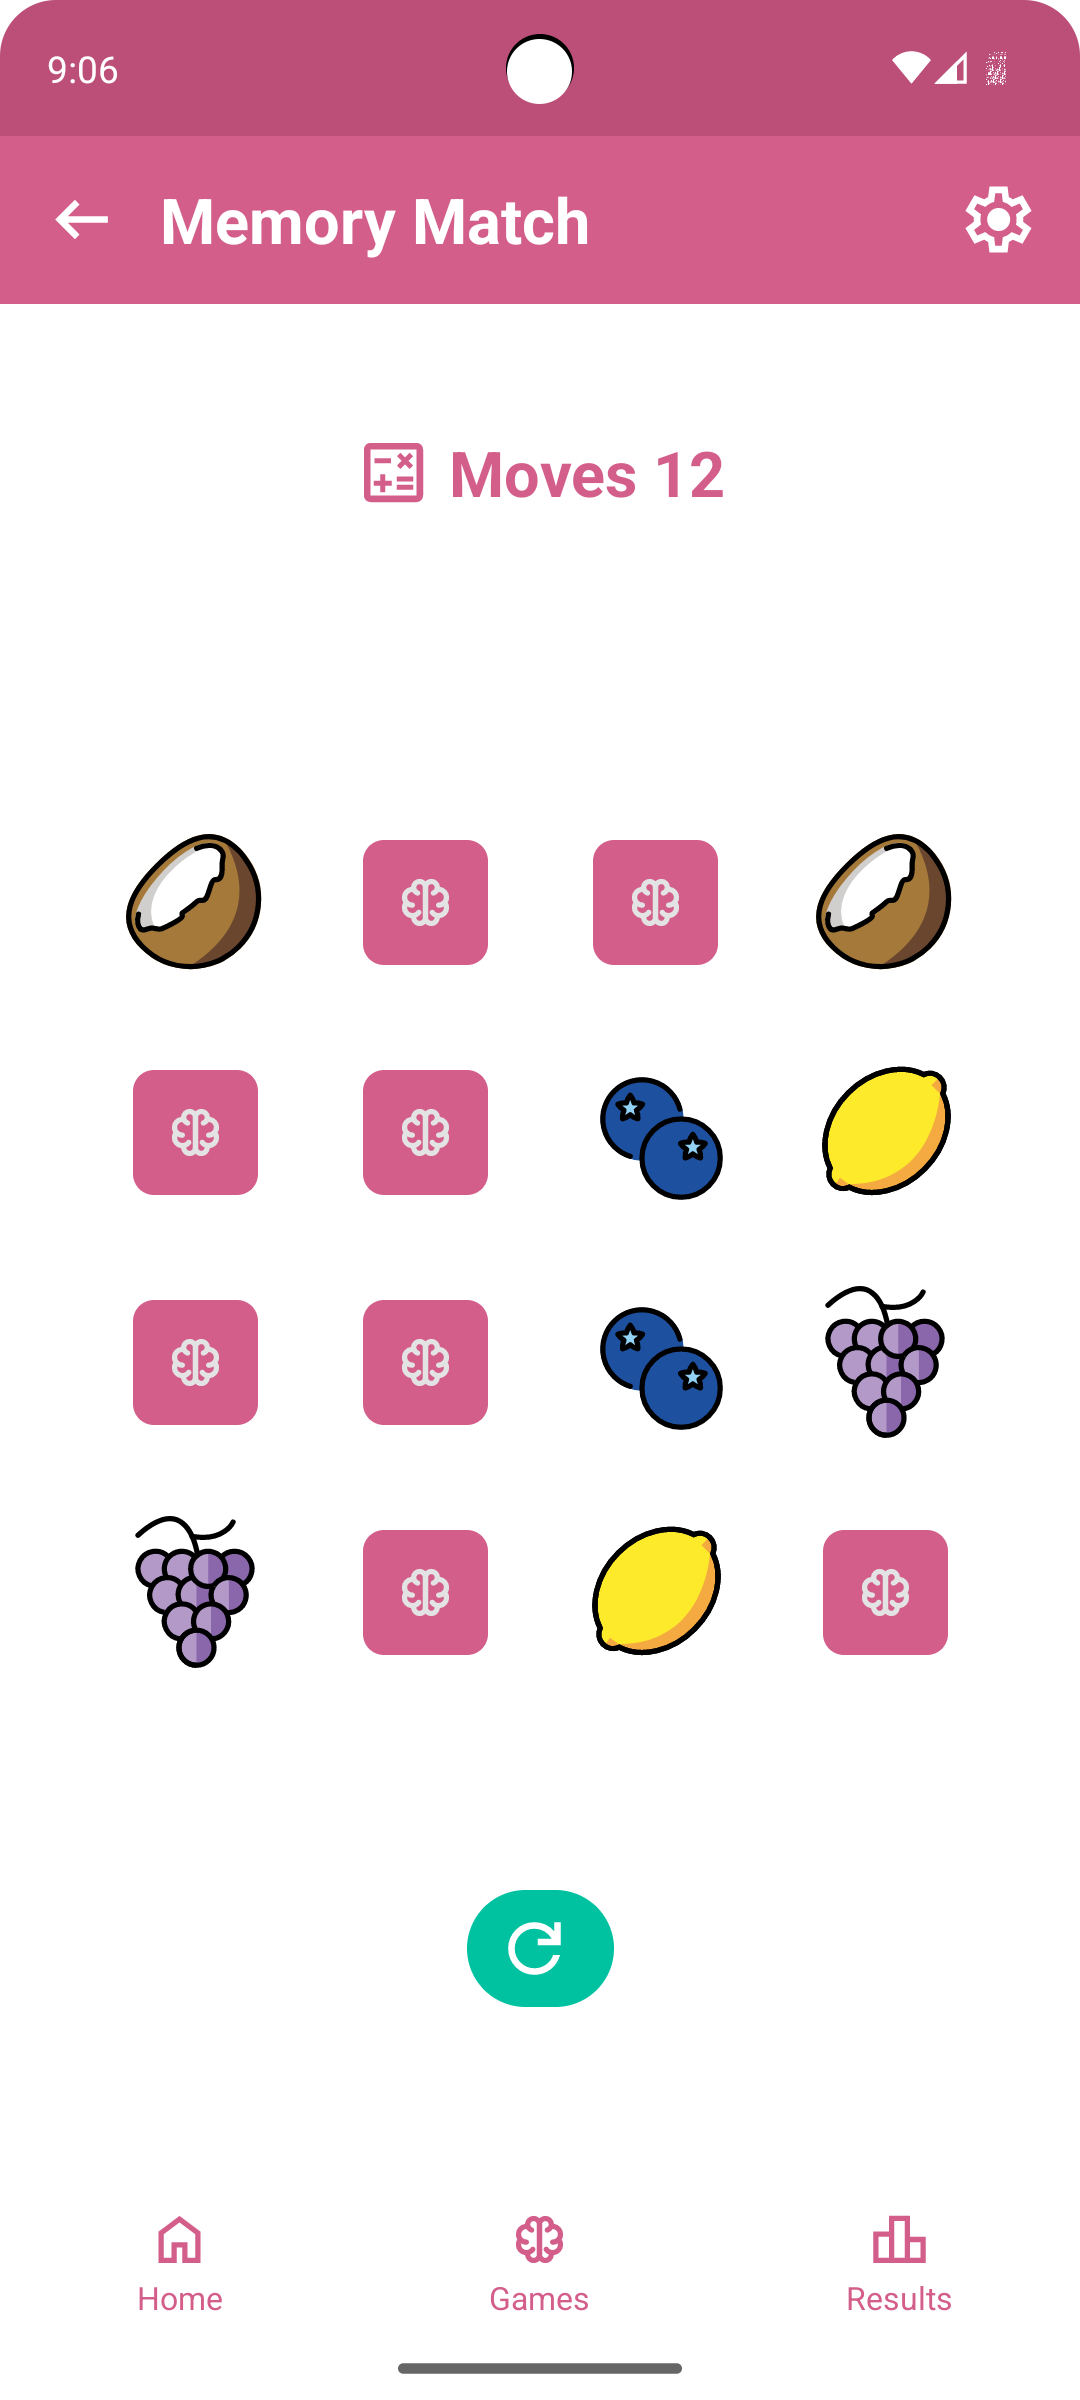
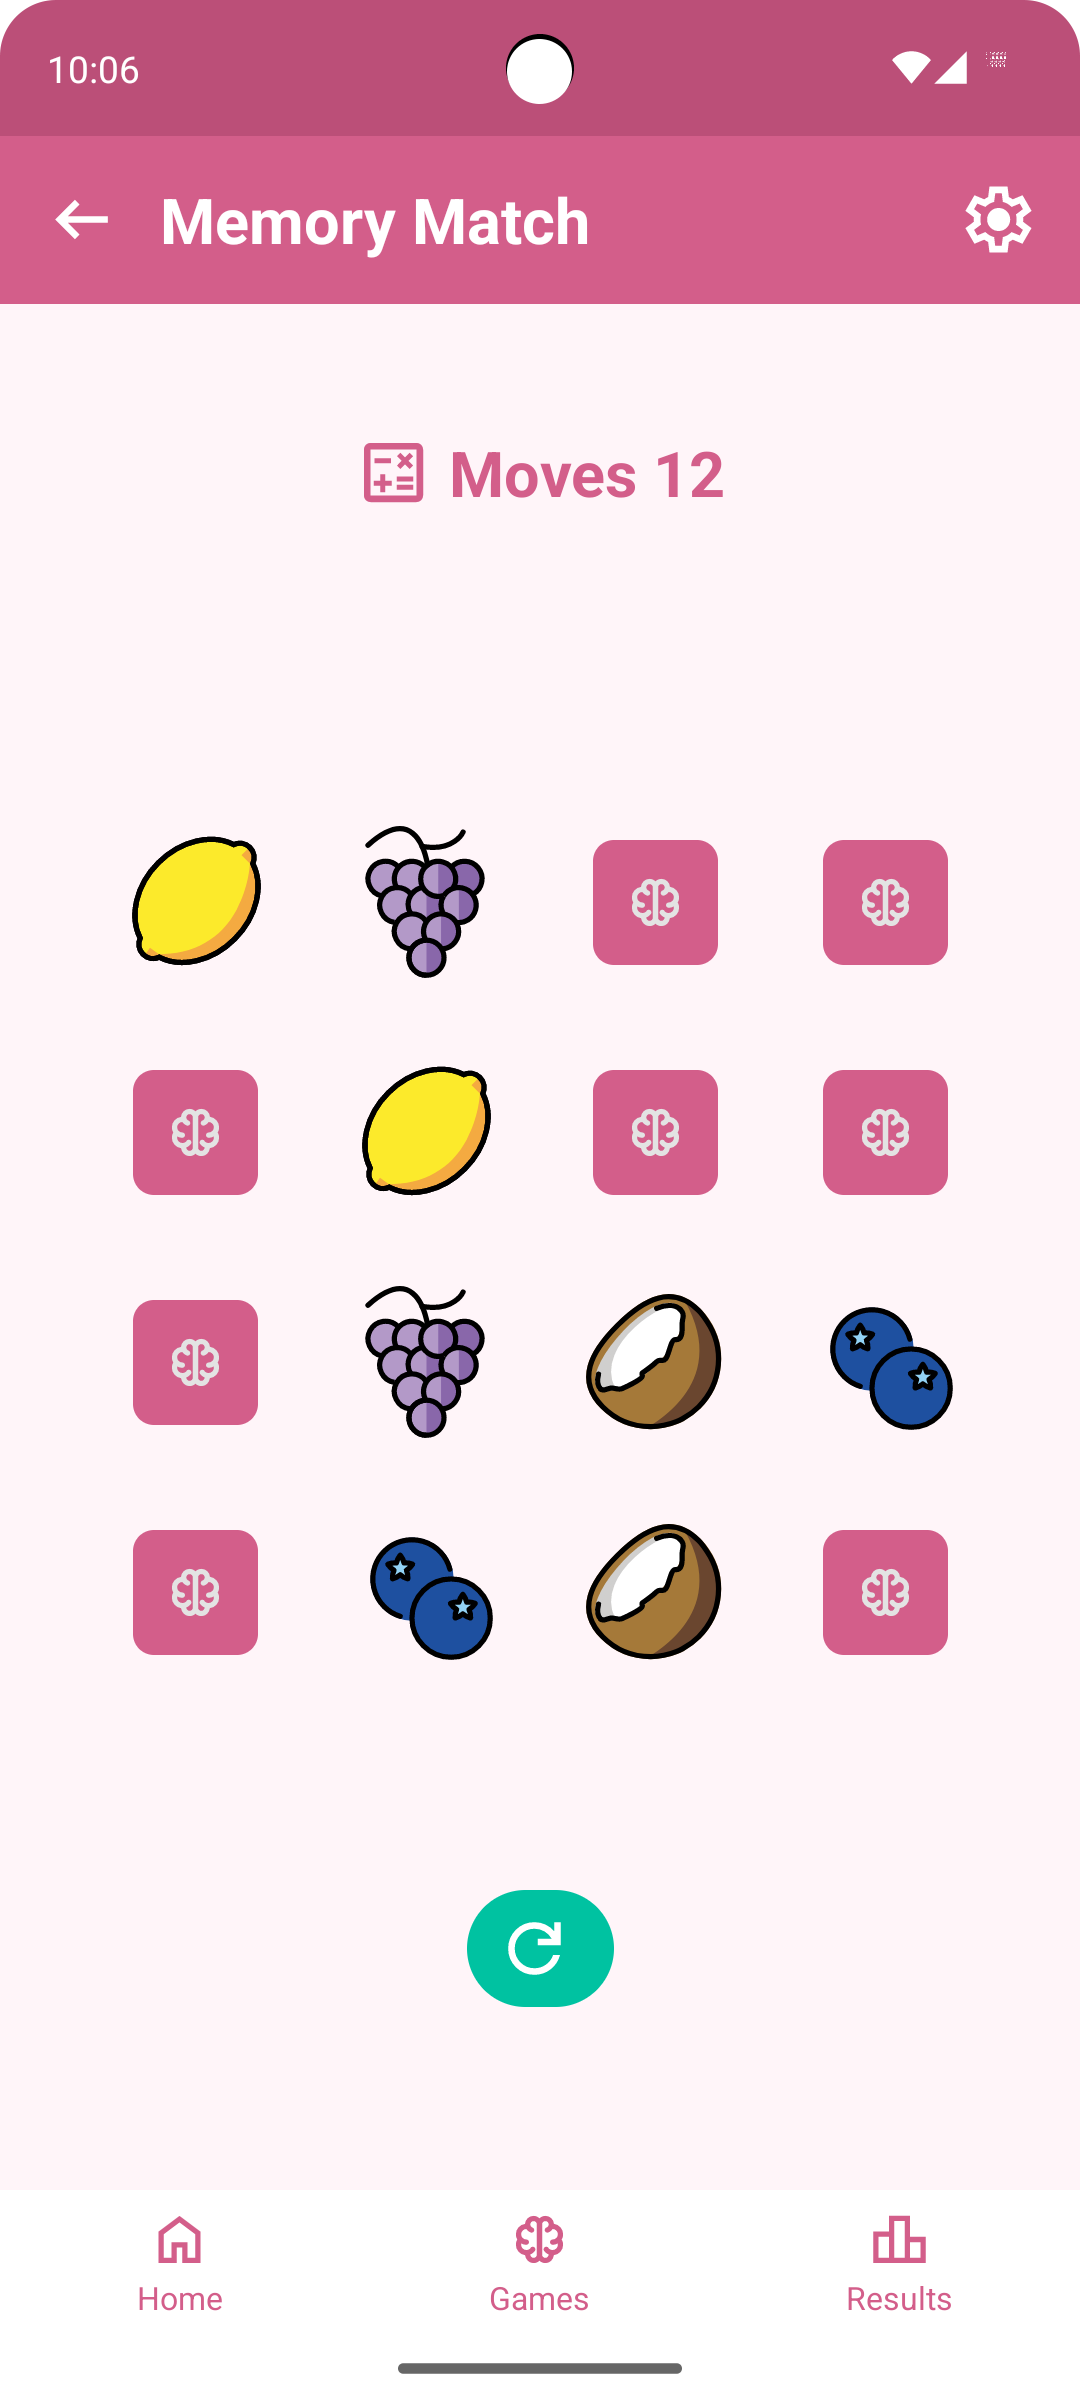
Change background color on screens

diff --git a/Mozgalica/app/src/main/java/com/example/mozgalica/activities/MemoryMatchActivity.java b/Mozgalica/app/src/main/java/com/example/mozgalica/activities/MemoryMatchActivity.java
@@ -49,6 +49,11 @@ public class MemoryMatchActivity extends AppCompatActivity {
         setContentView(R.layout.activity_memory_match);
 
         if (android.os.Build.VERSION.SDK_INT >= android.os.Build.VERSION_CODES.LOLLIPOP) {
+            getWindow().setNavigationBarColor(getResources().getColor(android.R.color.white));
+        }
+
+
+        if (android.os.Build.VERSION.SDK_INT >= android.os.Build.VERSION_CODES.LOLLIPOP) {
             getWindow().setStatusBarColor(getResources().getColor(R.color.colorPrimaryVariant));
         }
 
@@ -145,7 +150,7 @@ public class MemoryMatchActivity extends AppCompatActivity {
     private void flipCard(ImageButton card, int imageRes, boolean showWhiteBackground) {
         card.animate().scaleX(0f).setDuration(150).withEndAction(() -> {
             if (showWhiteBackground) {
-                card.setBackgroundColor(getResources().getColor(android.R.color.white));
+                card.setBackgroundColor(getResources().getColor(R.color.colorBackground));
             } else {
                 card.setBackgroundResource(0);
             }

diff --git a/Mozgalica/app/src/main/java/com/example/mozgalica/activities/SudokuActivity.java b/Mozgalica/app/src/main/java/com/example/mozgalica/activities/SudokuActivity.java
@@ -44,6 +44,11 @@ public class SudokuActivity extends AppCompatActivity {
         currentUser = getIntent().getStringExtra("USERNAME");
 
         if (android.os.Build.VERSION.SDK_INT >= android.os.Build.VERSION_CODES.LOLLIPOP) {
+            getWindow().setNavigationBarColor(getResources().getColor(android.R.color.white));
+        }
+
+
+        if (android.os.Build.VERSION.SDK_INT >= android.os.Build.VERSION_CODES.LOLLIPOP) {
             getWindow().setStatusBarColor(getResources().getColor(R.color.colorPrimaryVariant));
         }
 

diff --git a/Mozgalica/app/src/main/java/com/example/mozgalica/activities/TicTacToeActivity.java b/Mozgalica/app/src/main/java/com/example/mozgalica/activities/TicTacToeActivity.java
@@ -32,6 +32,11 @@ public class TicTacToeActivity extends AppCompatActivity {
         setContentView(R.layout.activity_tic_tac_toe);
 
         if (android.os.Build.VERSION.SDK_INT >= android.os.Build.VERSION_CODES.LOLLIPOP) {
+            getWindow().setNavigationBarColor(getResources().getColor(android.R.color.white));
+        }
+
+
+        if (android.os.Build.VERSION.SDK_INT >= android.os.Build.VERSION_CODES.LOLLIPOP) {
             getWindow().setStatusBarColor(getResources().getColor(R.color.colorPrimaryVariant));
         }
 

diff --git a/Mozgalica/app/src/main/java/com/example/mozgalica/activities/HistoryActivity.java b/Mozgalica/app/src/main/java/com/example/mozgalica/activities/HistoryActivity.java
@@ -37,6 +37,11 @@ public class HistoryActivity extends AppCompatActivity {
         setContentView(R.layout.activity_history);
 
         if (android.os.Build.VERSION.SDK_INT >= android.os.Build.VERSION_CODES.LOLLIPOP) {
+            getWindow().setNavigationBarColor(getResources().getColor(android.R.color.white));
+        }
+
+
+        if (android.os.Build.VERSION.SDK_INT >= android.os.Build.VERSION_CODES.LOLLIPOP) {
             getWindow().setStatusBarColor(getResources().getColor(R.color.colorPrimaryVariant));
         }
 

diff --git a/Mozgalica/app/src/main/java/com/example/mozgalica/activities/RegisterActivity.java b/Mozgalica/app/src/main/java/com/example/mozgalica/activities/RegisterActivity.java
@@ -37,7 +37,7 @@ public class RegisterActivity extends AppCompatActivity {
 
         if (android.os.Build.VERSION.SDK_INT >= android.os.Build.VERSION_CODES.LOLLIPOP) {
             getWindow().setStatusBarColor(getResources().getColor(R.color.colorPrimaryVariant));
-            getWindow().setNavigationBarColor(getResources().getColor(android.R.color.white));
+            getWindow().setNavigationBarColor(getResources().getColor(R.color.colorBackground));
         }
 
         dbHelper = new DatabaseHelper(this);

diff --git a/Mozgalica/app/src/main/java/com/example/mozgalica/activities/LoginActivity.java b/Mozgalica/app/src/main/java/com/example/mozgalica/activities/LoginActivity.java
@@ -36,7 +36,7 @@ public class LoginActivity extends AppCompatActivity {
 
         if (android.os.Build.VERSION.SDK_INT >= android.os.Build.VERSION_CODES.LOLLIPOP) {
             getWindow().setStatusBarColor(getResources().getColor(R.color.colorPrimaryVariant));
-            getWindow().setNavigationBarColor(getResources().getColor(android.R.color.white));
+            getWindow().setNavigationBarColor(getResources().getColor(R.color.colorBackground));
         }
 
         dbHelper = new DatabaseHelper(this);

diff --git a/README.md b/README.md
@@ -13,38 +13,40 @@
 ## 🏠 Register, login and home page
 Allows users to create an account and log in using a unique username. This step is required to access the games and use the application. After logging in, users are redirected to the main menu where they can choose a game, view results, or change settings.
 
-<div style="text-align: center;">
-  <img src="Screenshots/register.png" alt="Register screen" width="250" style="display: inline-block; margin-right: 10px;" />
-  <img src="Screenshots/login.png" alt="Login screen" width="250" style="display: inline-block; margin-right: 10px;" />
-  <img src="Screenshots/home.png" alt="Home screen" width="250" style="display: inline-block;" />
+<div>
+  <img src="Screenshots/register.png" alt="Register screen" width="250" style="margin-left: 20px; margin-right: 10px;" />
+  <img src="Screenshots/login.png" alt="Login screen" width="250" style="margin-right: 10px;" />
+  <img src="Screenshots/home.png" alt="Home screen" width="250" />
 </div>
 
 
 ## 🎮 Game pages
 Users can view all available games in one place. From the list, they can select one of the three offered games to either read the game description and rules or start playing.
 
- <img src="Screenshots/games.png" alt="Games screen" width="250" style="display: block; margin: 0 auto;" />
+<img src="Screenshots/games.png" alt="Games screen" width="250" style="margin-left: 20px;" />
 
  Each game includes its own interface, scoring logic, and a link to a related YouTube video tutorial. The games are:
 
  - Tic-Tac-Toe
 
-<div style="text-align: center;">
-  <img src="Screenshots/firstGame.png" alt="Tic-Tac-Toe game" width="250" style="margin-right: 10px;" />
+<div>
+  <img src="Screenshots/firstGame.png" alt="Tic-Tac-Toe game" width="250" style="margin-left: 20px; margin-right: 10px;" />
   <img src="Screenshots/firstGameDetails.png" alt="Tic-Tac-Toe details" width="250" />
 </div>
   
+
  - Memory match
 
-<div style="text-align: center;">
-  <img src="Screenshots/secondGame.png" alt="Memory Match game" width="250" style="margin-right: 10px;" />
+<div>
+  <img src="Screenshots/secondGame.png" alt="Memory Match game" width="250" style="margin-left: 20px; margin-right: 10px;" />
   <img src="Screenshots/secondGameDetails.png" alt="Memory Match details" width="250" />
 </div>
 
+
   - Sudoku
 
-<div style="text-align: center;">
-  <img src="Screenshots/thirdGame.png" alt="Sudoku game" width="250" style="margin-right: 10px;" />
+<div>
+  <img src="Screenshots/thirdGame.png" alt="Sudoku game" width="250" style="margin-left: 20px; margin-right: 10px;" />
   <img src="Screenshots/thirdGameDetails.png" alt="Sudoku details" width="250" />
 </div>
 
@@ -52,8 +54,8 @@ Users can view all available games in one place. From the list, they can select 
 ## 📊 Results page
 Displays a history of all game results with the ability to search by username, game name, result, or score.
 
-<div style="text-align: center;">
-  <img src="Screenshots/results.png" alt="Results screen" width="250" style="margin-right: 10px;" />
+<div>
+  <img src="Screenshots/results.png" alt="Results screen" width="250" style="margin-left: 20px; margin-right: 10px;" />
   <img src="Screenshots/searchResults.png" alt="Search results screen" width="250" />
 </div>
 
@@ -61,7 +63,7 @@ Displays a history of all game results with the ability to search by username, g
 ## ⚙ Settings page
 Allows users to switch the application language (Serbian or English) and log out. All language changes are applied immediately throughout the entire app.
 
-<img src="Screenshots/settings.png" alt="Settings screen" width="250" style="display: block; margin: 0 auto;" />
+<img src="Screenshots/settings.png" alt="Settings screen" width="250" style="margin-left: 20px;" />
 
 
 ## 📄 Reference to the detailed description
